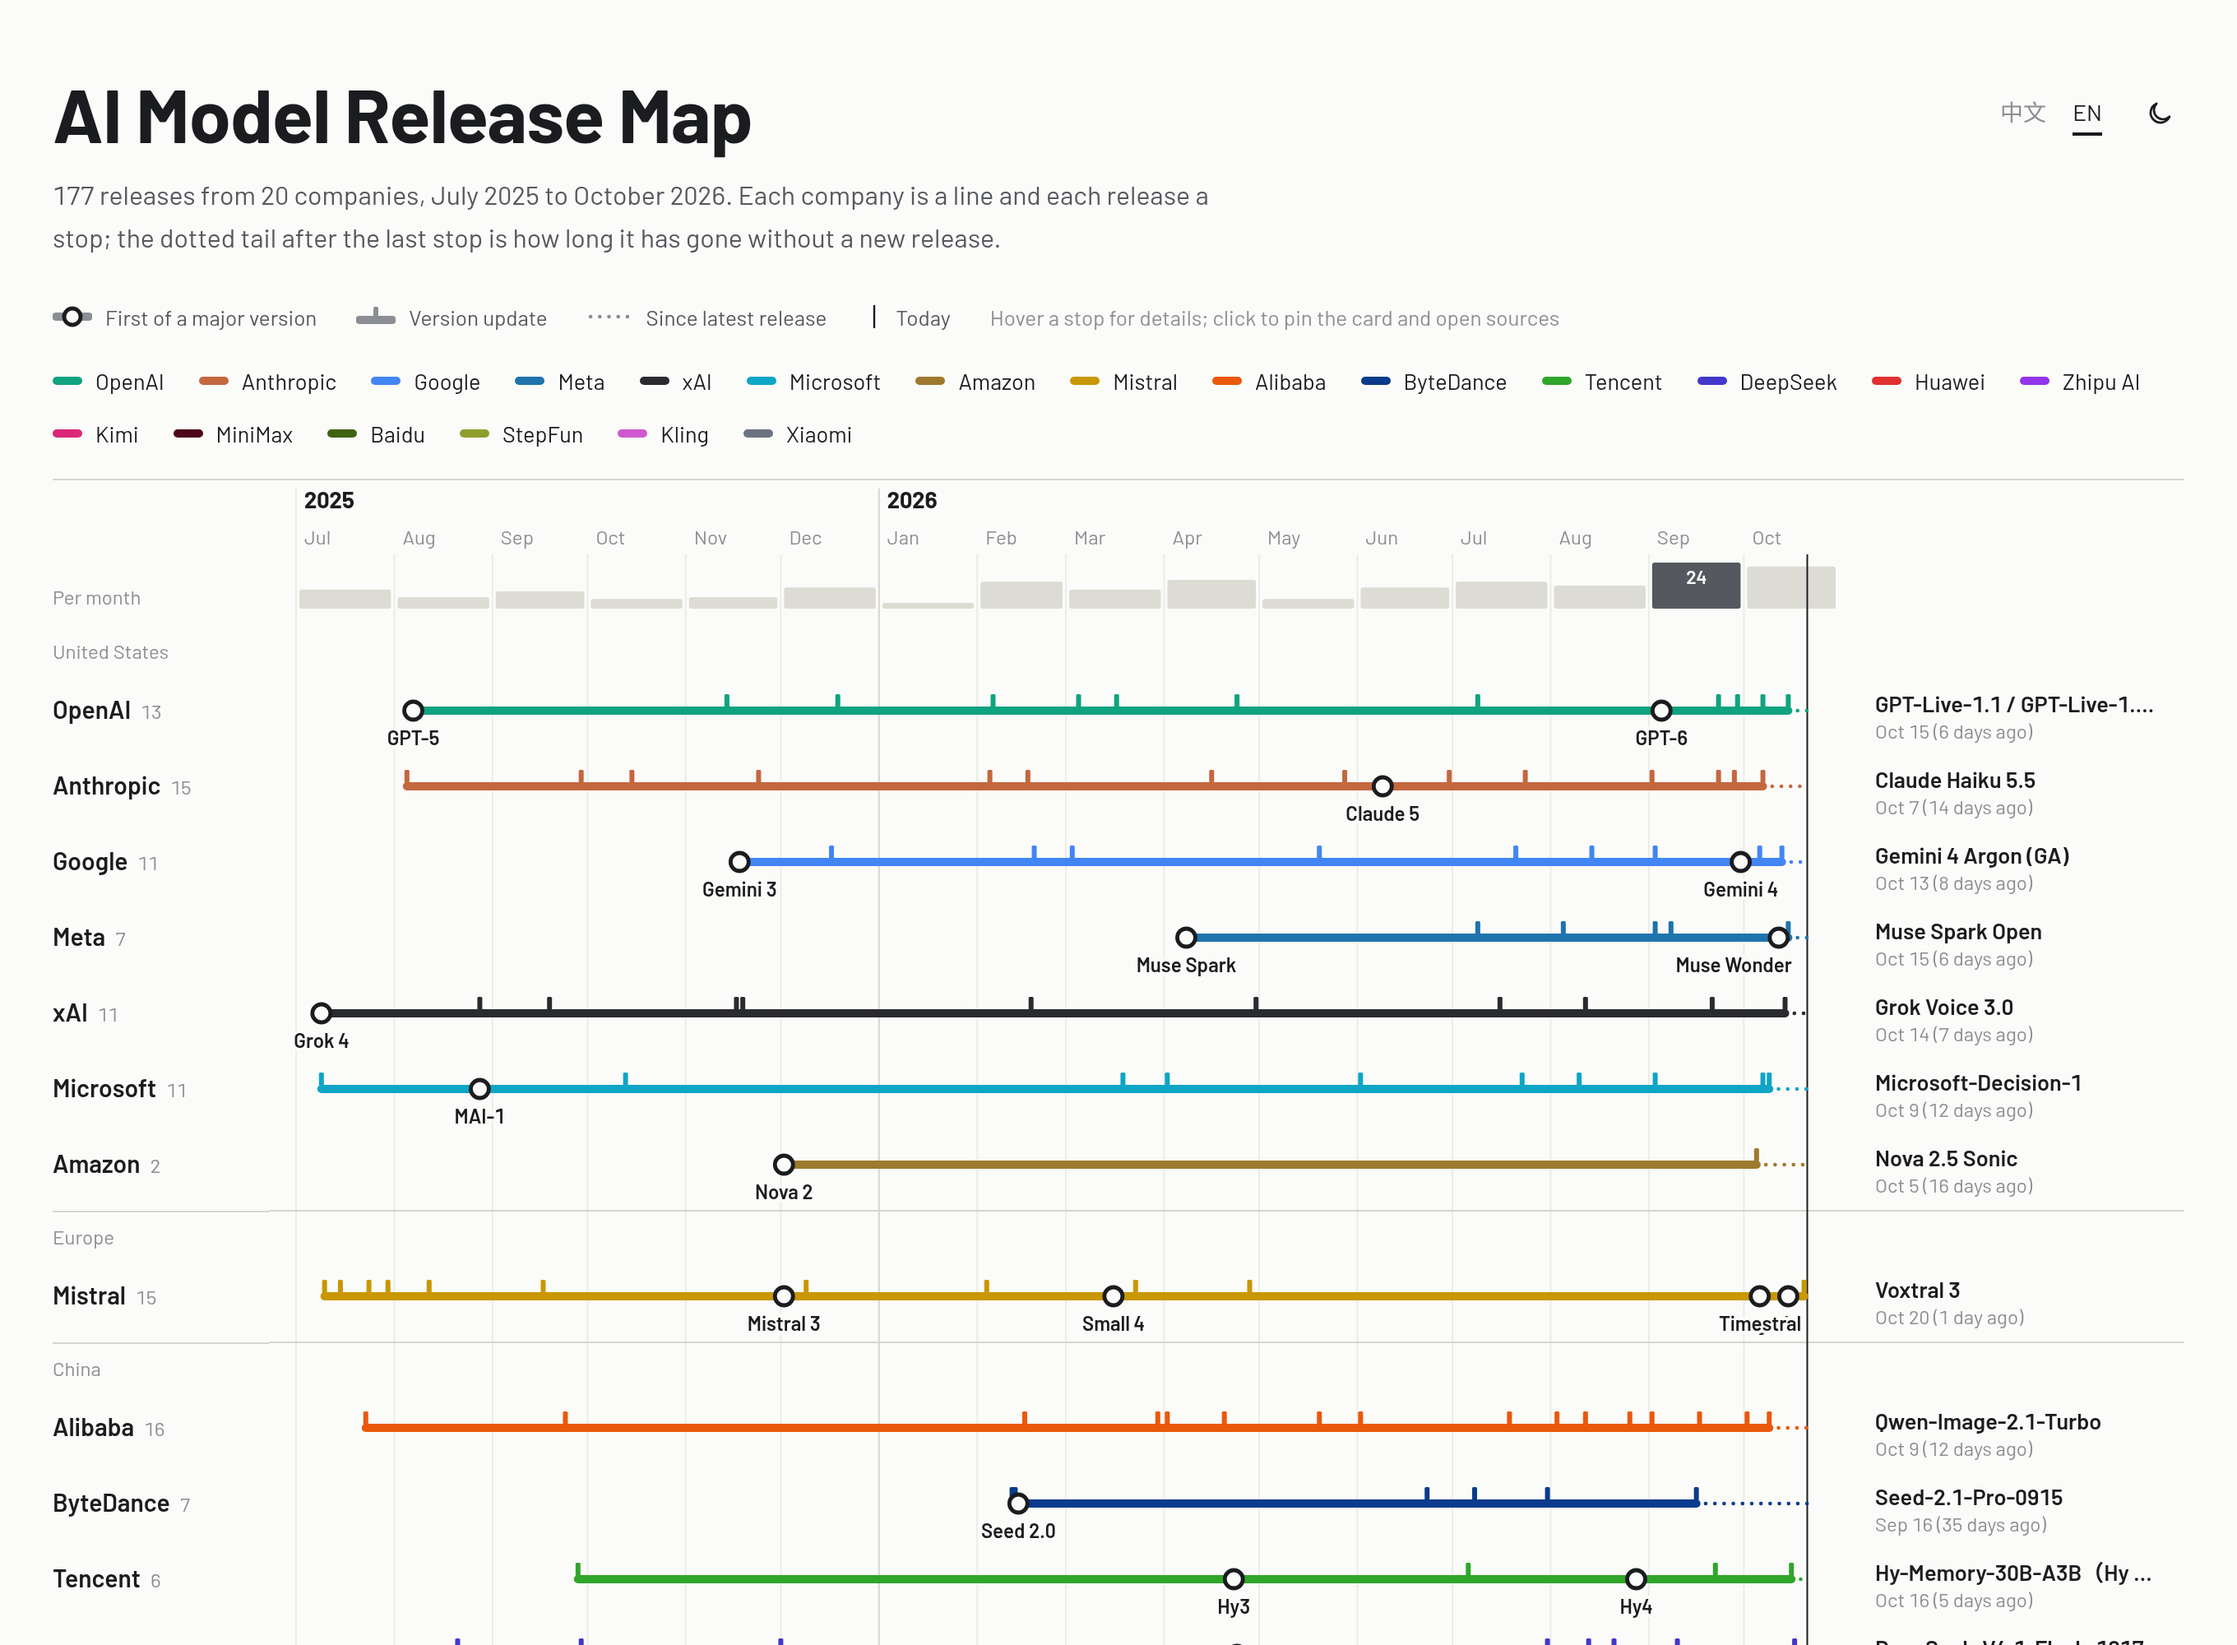
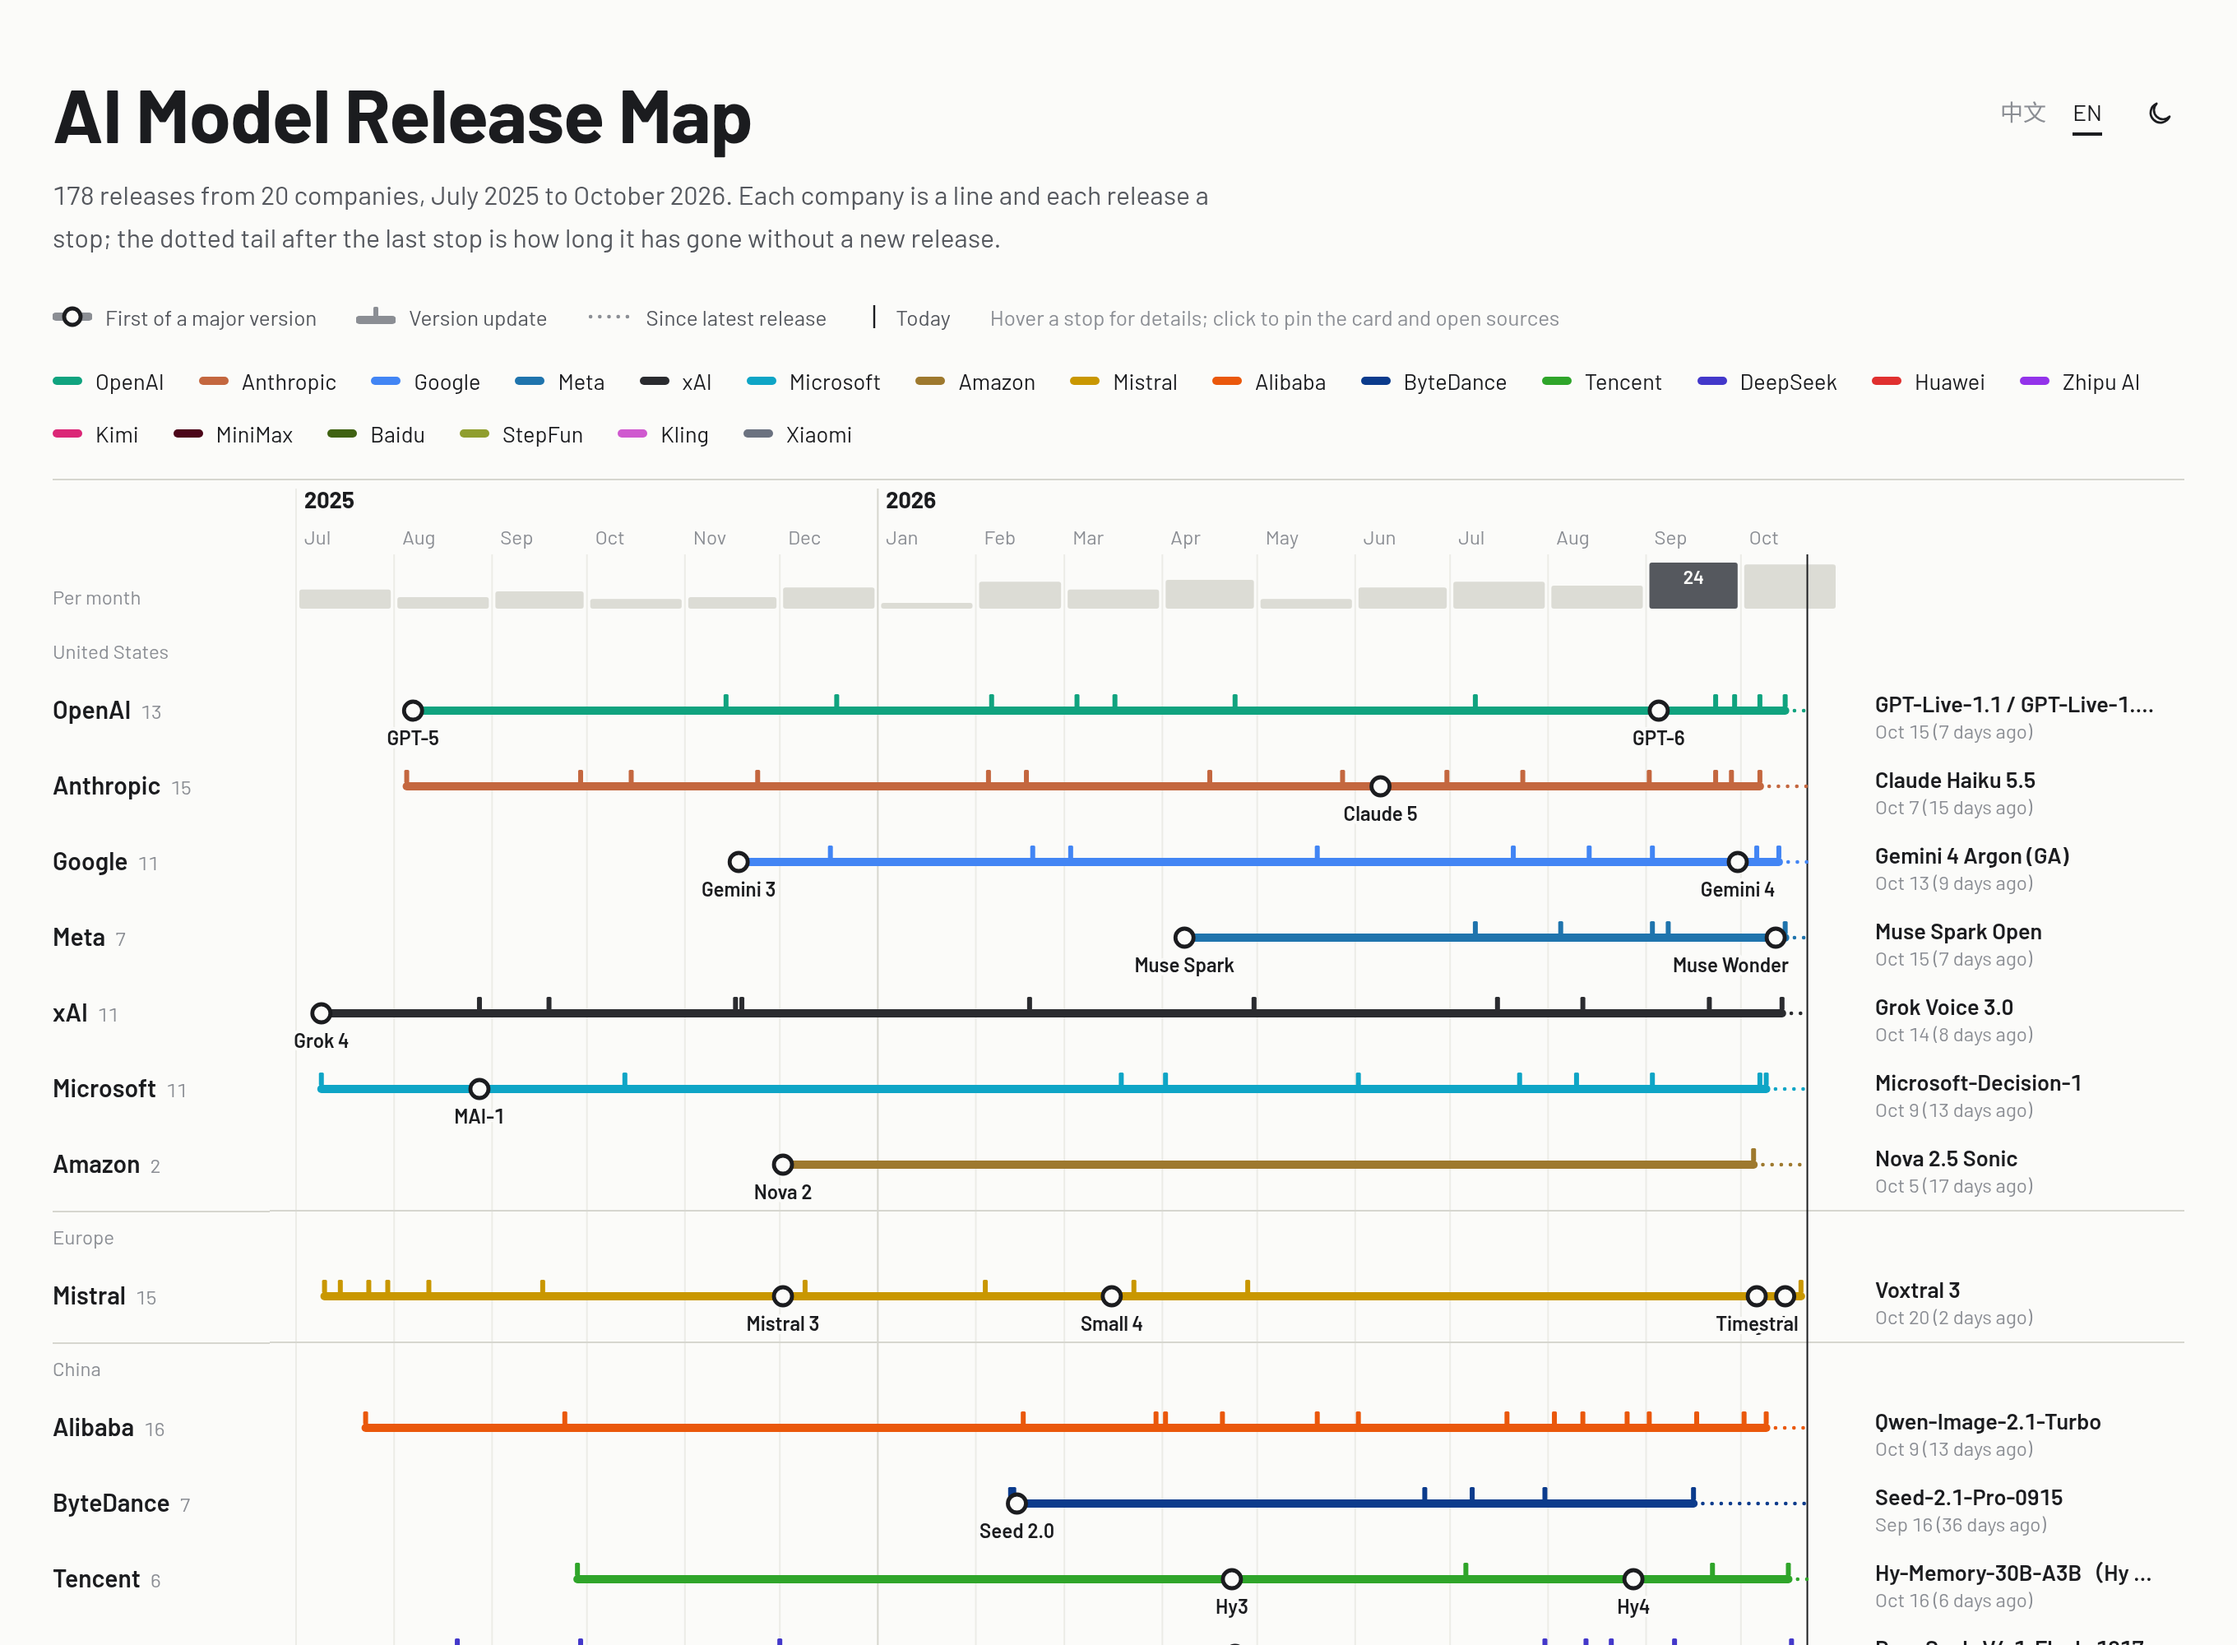
Auto-update: add Xiaomi-Lens-0 (10-19); official sources for GLM-4.5, GLM-4.6

diff --git a/index.html b/index.html
@@ -264,8 +264,8 @@ const DATA=[
 {company:"华为",model:"openPangu-Ultra-MoE-718B-V1.1",date:"2025-10-15",source:"https://www.hiascend.com/developer/techArticles/20251015-5"},
 {company:"华为",model:"openPangu-2.0-Flash",date:"2026-06-30",source:"https://m.ithome.com/html/983966.htm"},
 {company:"华为",model:"openPangu-2.0-Pro",date:"2026-07-31",source:"https://www.huawei.com/cn/news/2026/7/openpangu"},
-{company:"智谱",model:"GLM-4.5 / 4.5-Air",date:"2025-07-28",source:MT},
-{company:"智谱",model:"GLM-4.6",date:"2025-09-30",source:MT},
+{company:"智谱",model:"GLM-4.5 / 4.5-Air",date:"2025-07-28",source:"https://z.ai/blog/glm-4.5"},
+{company:"智谱",model:"GLM-4.6",date:"2025-09-30",source:"https://z.ai/blog/glm-4.6"},
 {company:"智谱",model:"GLM-4.7",date:"2025-12-23",source:MT},
 {company:"智谱",model:"GLM-5",date:"2026-02-11",source:MT},
 {company:"智谱",model:"GLM-5-Turbo",date:"2026-03-16",source:MT},
@@ -354,6 +354,7 @@ const DATA=[
 {company:"小米",model:"MiMo-V2.5-ASR",date:"2026-06-02",source:"https://mimo.mi.com/docs/zh-CN/updates/model"},
 {company:"小米",model:"MiMo-V2.6-Pro / V2.6-Flash",date:"2026-09-22",source:"https://mimo.mi.com/docs/zh-CN/news/latest/v2-6"},
 {company:"小米",model:"MiDashengLM-Spatial",date:"2026-10-15",source:"https://github.com/xiaomi-research/midashenglm-spatial"},
+{company:"小米",model:"Xiaomi-Lens-0",date:"2026-10-19",source:"https://huggingface.co/SeerRay-Lab/Xiaomi-Lens-0"},
 ];
 // 每条线路的颜色：[浅色, 深色, 分组]。颜色跟着公司走，筛选时不重排。
 const LINES={"OpenAI":["#10a37f","#129673","us"],"Anthropic":["#c4673f","#c46b4b","us"],"Google":["#4285f4","#4f87ee","us"],"Meta":["#1f74ad","#4a9bd1","us"],
@@ -374,14 +375,14 @@ zh:{title:"AI 模型发布线路图",
  latestH:"各公司最新一站",groups:{us:"美国",eu:"欧洲",cn:"中国"},monthly:"每月发布",mon:m=>`${m}月`,d:(m,d)=>`${m}月${d}日`,full:(y,m,d)=>`${y}年${m}月${d}日`,
  ago:n=>n<=0?"今天":`${n} 天前`,sub:(dt,ago)=>`${dt}（${ago}）`,count:n=>`${n} 次`,off:"官方",third:"第三方",
  tbl:n=>`以表格查看全部 ${n} 次发布`,cols:["日期","公司","模型","来源"],filt:"显示或隐藏线路",themeL:"切换深浅色",
- foot:'数据来源：<a href="https://modeltimeline.com/zh/" target="_blank" rel="noopener">modeltimeline.com/zh</a>、<a href="https://www.datalearner.com/whats-new" target="_blank" rel="noopener">DataLearner</a>、各公司官方公告（OpenAI、Anthropic、Google、Meta、阿里云、DeepSeek、Kimi、字节跳动 Seed、腾讯、华为、xAI、Microsoft AI、Amazon、Mistral、MiniMax、百度、阶跃星辰、快手可灵、小米 MiMo 等）及新闻报道。仅收录在来源中实际查到的条目，同一天发布的多个型号合并为一站。整理日期：2026-10-21。'},
+ foot:'数据来源：<a href="https://modeltimeline.com/zh/" target="_blank" rel="noopener">modeltimeline.com/zh</a>、<a href="https://www.datalearner.com/whats-new" target="_blank" rel="noopener">DataLearner</a>、各公司官方公告（OpenAI、Anthropic、Google、Meta、阿里云、DeepSeek、Kimi、字节跳动 Seed、腾讯、华为、xAI、Microsoft AI、Amazon、Mistral、MiniMax、百度、阶跃星辰、快手可灵、小米 MiMo 等）及新闻报道。仅收录在来源中实际查到的条目，同一天发布的多个型号合并为一站。整理日期：2026-10-22。'},
 en:{title:"AI Model Release Map",
  lede:(n,c)=>`${n} releases from ${c} companies, July 2025 to October 2026. Each company is a line and each release a stop; the dotted tail after the last stop is how long it has gone without a new release.`,
  major:"First of a major version",minor:"Version update",multi:"Several on one day",gap:"Since latest release",today:"Today",hint:"Hover a stop for details; click to pin the card and open sources",
  latestH:"Latest stop by company",groups:{us:"United States",eu:"Europe",cn:"China"},monthly:"Per month",mon:m=>EN_M[m-1],d:(m,d)=>`${EN_M[m-1]} ${d}`,full:(y,m,d)=>`${EN_M[m-1]} ${d}, ${y}`,
  ago:n=>n<=0?"today":n==1?"1 day ago":`${n} days ago`,sub:(dt,ago)=>`${dt} (${ago})`,count:n=>`${n}`,off:"Official",third:"Third-party",
  tbl:n=>`View all ${n} releases as a table`,cols:["Date","Company","Model","Source"],filt:"Show or hide lines",themeL:"Toggle dark mode",
- foot:'Sources: <a href="https://modeltimeline.com/zh/" target="_blank" rel="noopener">modeltimeline.com/zh</a>, <a href="https://www.datalearner.com/whats-new" target="_blank" rel="noopener">DataLearner</a>, official announcements (OpenAI, Anthropic, Google, Meta, Alibaba Cloud, DeepSeek, Kimi, ByteDance Seed, Tencent, Huawei, xAI, Microsoft AI, Amazon, Mistral, MiniMax, Baidu, StepFun, Kuaishou Kling, Xiaomi MiMo, etc.) and news reports. Only entries actually found in sources are included; models released on the same day are merged into one stop. Compiled: 2026-10-21.'},};
+ foot:'Sources: <a href="https://modeltimeline.com/zh/" target="_blank" rel="noopener">modeltimeline.com/zh</a>, <a href="https://www.datalearner.com/whats-new" target="_blank" rel="noopener">DataLearner</a>, official announcements (OpenAI, Anthropic, Google, Meta, Alibaba Cloud, DeepSeek, Kimi, ByteDance Seed, Tencent, Huawei, xAI, Microsoft AI, Amazon, Mistral, MiniMax, Baidu, StepFun, Kuaishou Kling, Xiaomi MiMo, etc.) and news reports. Only entries actually found in sources are included; models released on the same day are merged into one stop. Compiled: 2026-10-22.'},};
 
 const qp=new URLSearchParams(location.search);
 const store={get:k=>{try{return localStorage.getItem(k)}catch(e){return null}},set:(k,v)=>{try{localStorage.setItem(k,v)}catch(e){}}};
